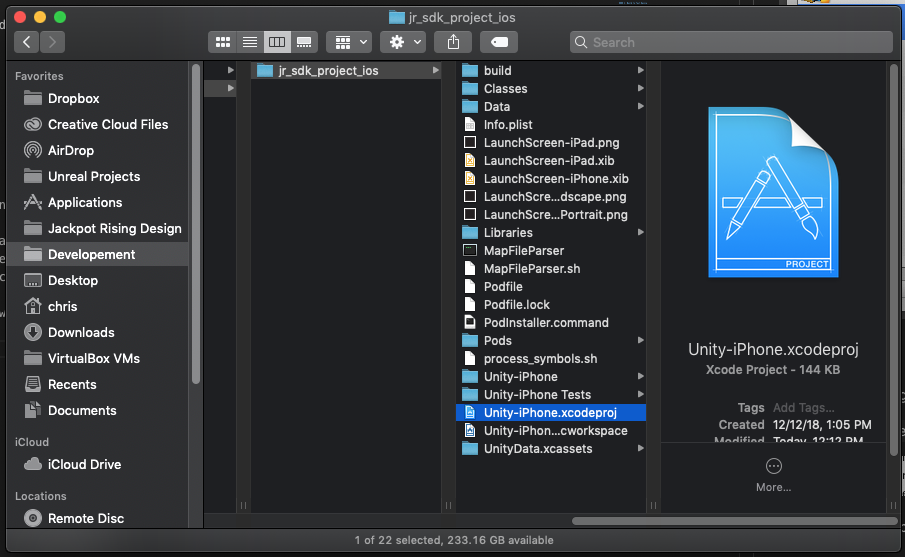
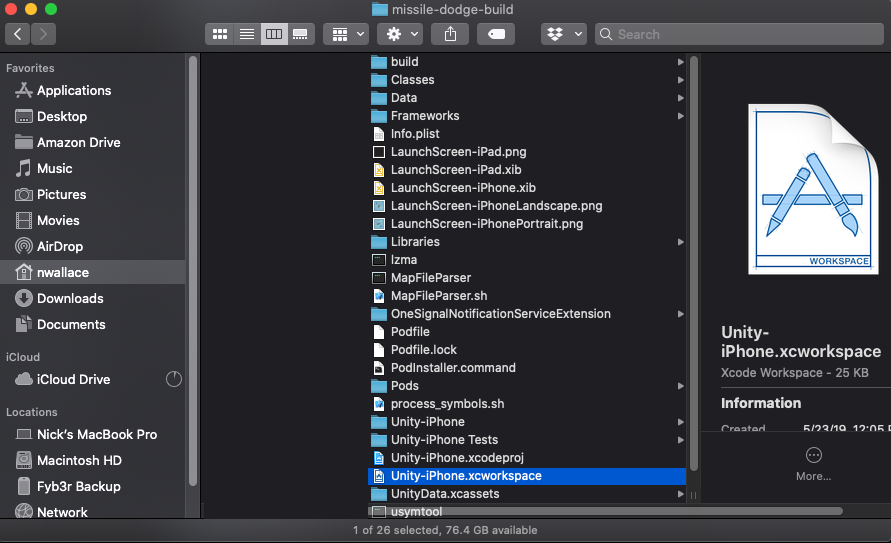
Updating docs

Changed region(s): [[0.0, 0.0, 1.0, 1.0], [0.1818, 0.6777, 0.2424, 0.884], [0.8182, 0.825, 0.9394, 0.884]]

diff --git a/docs/unity/integration.md b/docs/unity/integration.md
@@ -48,7 +48,7 @@ Browse to **Windows > Jackpot Rising > Edit Settings** to view the SDK configura
 - Documentation: launches this documentation site
 - Developer/Production Client ID and Secret: these are covered in the 'Enter SDK Credentials' step below
 - Checkbox Options: Hover over the (?) mark for more details. Tap the Production option when you're ready for release.
-- Simulate Key/Value parameters : simulates [Tournament Parameters](unity/guides?id=tournament-parameters) 
+- Simulate Key/Value parameters : simulates [Tournament Parameters](unity/guides?id=tournament-parameters)
 
 #### 5. Enter SDK Credentials
 
@@ -104,7 +104,7 @@ public class MyGameScript : MonoBehaviour, JackpotRising.ContestListener {
     public void StartTournament(long tournamentID, JackpotRising.KeyValues keyvalues) {
         // ...
     }
-   
+
     // Insert custom game logic here
     void OnStartGameplay() {
         // ...
@@ -200,7 +200,7 @@ public void StartTournament(long tournamentID, JackpotRising.KeyValues keyvalues
     GameEventsManager.level = keyvalues.GetInt("level");
     GameEventsManager.levelName = keyvalues.GetString("name");
     GameEventsManager.speed = keyvalues.GetFloat("gameSpeed");
-    
+
     // Handle any game specific logic here (change scenes, etc)
     OnStartGameplay();
 }
@@ -246,7 +246,7 @@ This message will be used when prompting for the location persmission, required 
 
 During the build process we'll utilize Cocopods to install some required resources in your Xcode project. This includes the iOS native SDK Overlay UI.
 
-?> See the [Cocoapods website](https://cocoapods.org/ 'target:_blank') for complete intructions
+?> See the [Cocoapods website](https://cocoapods.org/ 'target:_blank') for complete instructions
 
 Enter the following in your terminal to verify Cocopods is installed. If successful a version number will be returned:
 
@@ -258,7 +258,7 @@ pod --version
 
 Tap the Build button and select a destination for your Xcode project.
 
-> During each build process you will see a terminal window open automatically. This is Cocopods installing the required resources. Once complete the Xcode project will open automatically for you. Otherwise double-click 'Unity-iPhone.xcodeproj'.
+> During each build process you will see a terminal window open automatically. This is Cocopods installing the required resources. Once complete the Xcode project will open automatically for you. Otherwise double-click 'Unity-iPhone.xcworkspace' file.
 
 ![Screenshot](media/build-ios/003.png)
 
